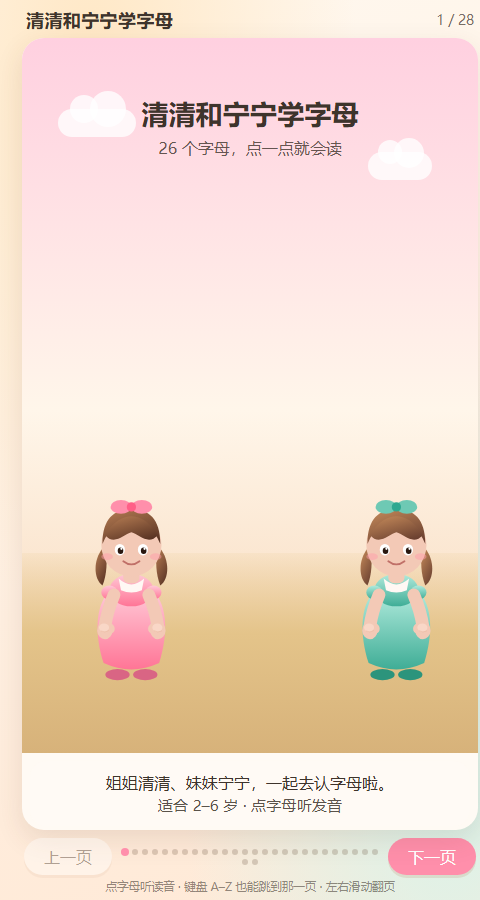
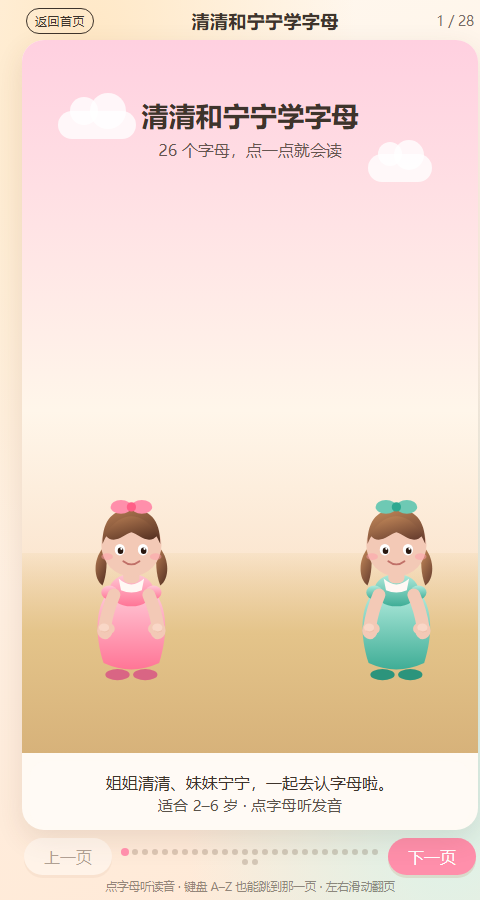
让每本绘本能回到目录对应项，并按目录顺序打开下一本。

diff --git a/index.html b/index.html
@@ -50,7 +50,8 @@
       gap: 14px;
     }
 
-    a.book {
+    a.book,
+    .book {
       display: flex;
       gap: 14px;
       align-items: center;
@@ -60,6 +61,21 @@
       border-radius: 22px;
       padding: 14px;
       box-shadow: 0 8px 0 rgba(180, 120, 80, 0.12), 0 12px 24px rgba(80, 50, 30, 0.06);
+    }
+
+    .book.is-current {
+      outline: 3px solid #e86b8a;
+      outline-offset: 2px;
+    }
+
+    .book-link {
+      display: flex;
+      gap: 14px;
+      align-items: center;
+      min-width: 0;
+      flex: 1;
+      text-decoration: none;
+      color: inherit;
     }
 
     .thumb {
@@ -113,33 +129,47 @@
     <p>点一本，开始读。不用安装，打开就能看。</p>
   </header>
   <main class="shelf">
-    <a class="book moon" href="rabbit_moon/index.html">
-      <img class="thumb" src="previews/rabbit_moon.png" alt="小兔子的月亮首页" />
-      <div class="meta">
-        <span class="mark">月亮</span>
-        <h2>小兔子的月亮</h2>
-        <p>小兔子想把月亮带回家，最后学会月亮可以留在心里。</p>
-        <span class="age">适合 3–6 岁 · 点月亮、池塘和小兔子</span>
-      </div>
-    </a>
-    <a class="book share" href="share_cookies/index.html">
-      <img class="thumb" src="previews/share_cookies.png" alt="清清和宁宁分饼干首页" />
-      <div class="meta">
-        <span class="mark">分享</span>
-        <h2>清清和宁宁分饼干</h2>
-        <p>姐姐清清和妹妹宁宁把四块饼干分成一人两块。</p>
-        <span class="age">适合 2–6 岁 · 点角色和饼干</span>
-      </div>
-    </a>
-    <a class="book letters" href="english_letters/index.html">
-      <img class="thumb" src="previews/english_letters.png" alt="清清和宁宁学字母首页" />
-      <div class="meta">
-        <span class="mark">A–Z</span>
-        <h2>清清和宁宁学字母</h2>
-        <p>26 个字母，每个字母一个单词和一张图。点字母就能听读音。</p>
-        <span class="age">适合 2–6 岁 · 点字母听一听</span>
-      </div>
-    </a>
+    <article class="book moon" id="rabbit_moon">
+      <a class="book-link" href="rabbit_moon/index.html">
+        <img class="thumb" src="previews/rabbit_moon.png" alt="小兔子的月亮首页" />
+        <div class="meta">
+          <span class="mark">月亮</span>
+          <h2>小兔子的月亮</h2>
+          <p>小兔子想把月亮带回家，最后学会月亮可以留在心里。</p>
+          <span class="age">适合 3–6 岁 · 点月亮、池塘和小兔子</span>
+        </div>
+      </a>
+    </article>
+    <article class="book share" id="share_cookies">
+      <a class="book-link" href="share_cookies/index.html">
+        <img class="thumb" src="previews/share_cookies.png" alt="清清和宁宁分饼干首页" />
+        <div class="meta">
+          <span class="mark">分享</span>
+          <h2>清清和宁宁分饼干</h2>
+          <p>姐姐清清和妹妹宁宁把四块饼干分成一人两块。</p>
+          <span class="age">适合 2–6 岁 · 点角色和饼干</span>
+        </div>
+      </a>
+    </article>
+    <article class="book letters" id="english_letters">
+      <a class="book-link" href="english_letters/index.html">
+        <img class="thumb" src="previews/english_letters.png" alt="清清和宁宁学字母首页" />
+        <div class="meta">
+          <span class="mark">A–Z</span>
+          <h2>清清和宁宁学字母</h2>
+          <p>26 个字母，每个字母一个单词和一张图。点字母就能听读音。</p>
+          <span class="age">适合 2–6 岁 · 点字母听一听</span>
+        </div>
+      </a>
+    </article>
   </main>
+  <script>
+    const id = decodeURIComponent(location.hash.replace(/^#/, ""));
+    document.querySelectorAll(".book").forEach((card) => {
+      card.classList.toggle("is-current", card.id === id);
+    });
+    const card = id && document.getElementById(id);
+    if (card) card.scrollIntoView({ block: "center" });
+  </script>
 </body>
 </html>

diff --git a/share_cookies/index.html b/share_cookies/index.html
@@ -751,6 +751,10 @@
   </svg>
   <div class="app" id="app">
     <header class="topbar">
+      <nav class="book-nav">
+        <a class="home-link" href="../index.html#share_cookies">返回首页</a>
+        <a class="home-link" href="../english_letters/index.html">下一本</a>
+      </nav>
       <span class="brand">清清和宁宁分饼干</span>
       <span class="page-indicator" id="pageIndicator">1 / 9</span>
     </header>

diff --git a/english_letters/index.html b/english_letters/index.html
@@ -186,6 +186,10 @@
   </svg>
   <div class="app">
     <header class="topbar">
+      <nav class="book-nav">
+        <a class="home-link" href="../index.html#english_letters">返回首页</a>
+        <a class="home-link" href="../rabbit_moon/index.html">下一本</a>
+      </nav>
       <span class="brand">清清和宁宁学字母</span>
       <span class="page-indicator" id="pageIndicator">1 / 28</span>
     </header>

diff --git a/rabbit_moon/index.html b/rabbit_moon/index.html
@@ -442,6 +442,10 @@
 
   <div class="app" id="app">
     <header class="topbar">
+      <nav class="book-nav">
+        <a class="home-link" href="../index.html#rabbit_moon">返回首页</a>
+        <a class="home-link" href="../share_cookies/index.html">下一本</a>
+      </nav>
       <span class="brand">小兔子的月亮</span>
       <span class="page-indicator" id="pageIndicator">1 / 9</span>
     </header>

diff --git a/share_cookies/styles.css b/share_cookies/styles.css
@@ -63,6 +63,23 @@ button {
   letter-spacing: 0.04em;
 }
 
+.book-nav {
+  display: flex;
+  gap: 6px;
+  align-items: center;
+}
+
+.home-link {
+  flex-shrink: 0;
+  text-decoration: none;
+  color: inherit;
+  font-size: 0.78rem;
+  letter-spacing: 0;
+  padding: 4px 8px;
+  border-radius: 999px;
+  border: 1px solid currentColor;
+}
+
 .page-indicator {
   font-size: 0.85rem;
   opacity: 0.7;

diff --git a/rabbit_moon/styles.css b/rabbit_moon/styles.css
@@ -59,6 +59,23 @@ body {
   letter-spacing: 0.12em;
 }
 
+.book-nav {
+  display: flex;
+  gap: 6px;
+  align-items: center;
+}
+
+.home-link {
+  flex-shrink: 0;
+  text-decoration: none;
+  color: inherit;
+  font-size: 0.78rem;
+  letter-spacing: 0;
+  padding: 4px 8px;
+  border-radius: 999px;
+  border: 1px solid currentColor;
+}
+
 .stage {
   flex: 1;
   position: relative;

diff --git a/english_letters/styles.css b/english_letters/styles.css
@@ -60,6 +60,22 @@ button {
   font-weight: 700;
 }
 
+.book-nav {
+  display: flex;
+  gap: 6px;
+  align-items: center;
+}
+
+.home-link {
+  flex-shrink: 0;
+  text-decoration: none;
+  color: inherit;
+  font-size: 0.78rem;
+  padding: 4px 8px;
+  border-radius: 999px;
+  border: 1px solid currentColor;
+}
+
 .page-indicator {
   font-size: 0.85rem;
   opacity: 0.7;
